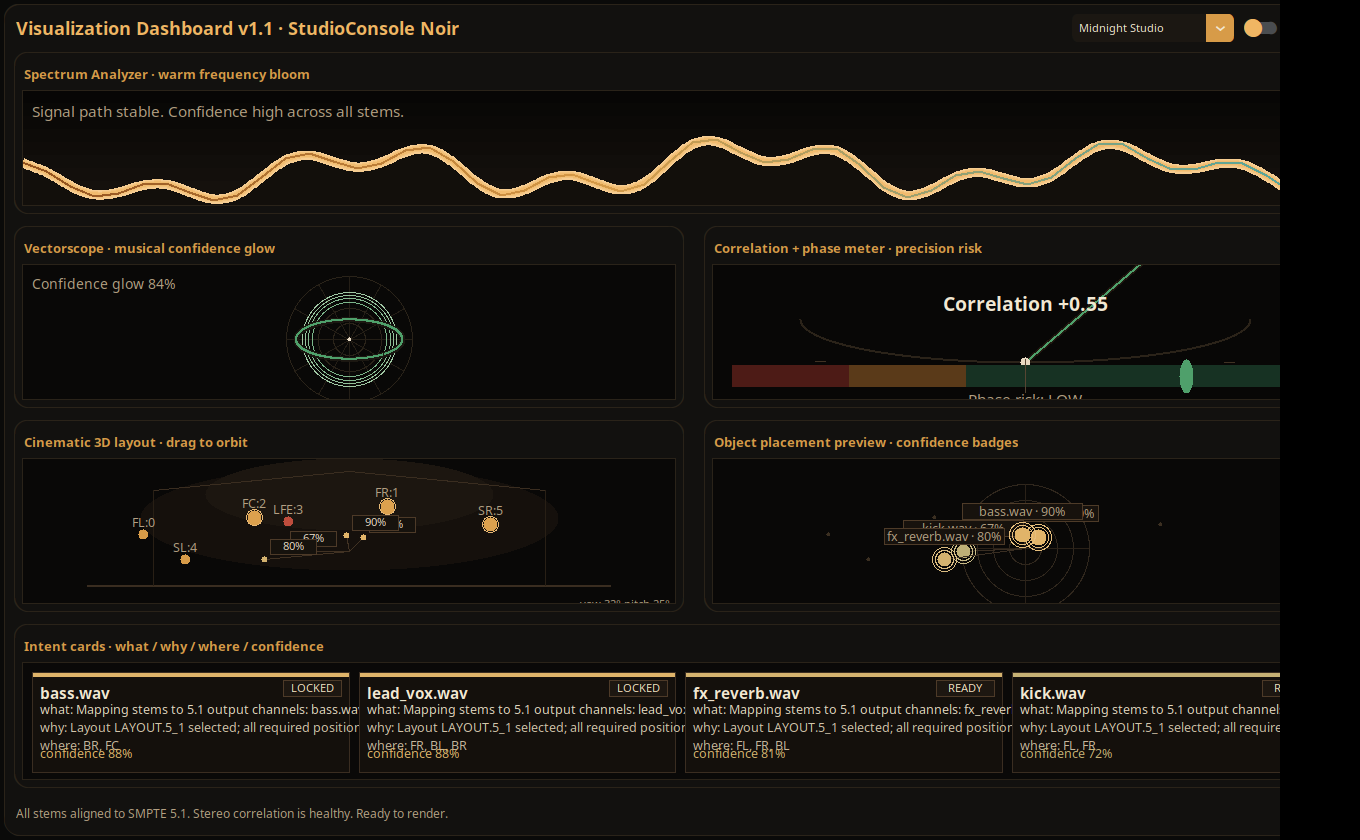
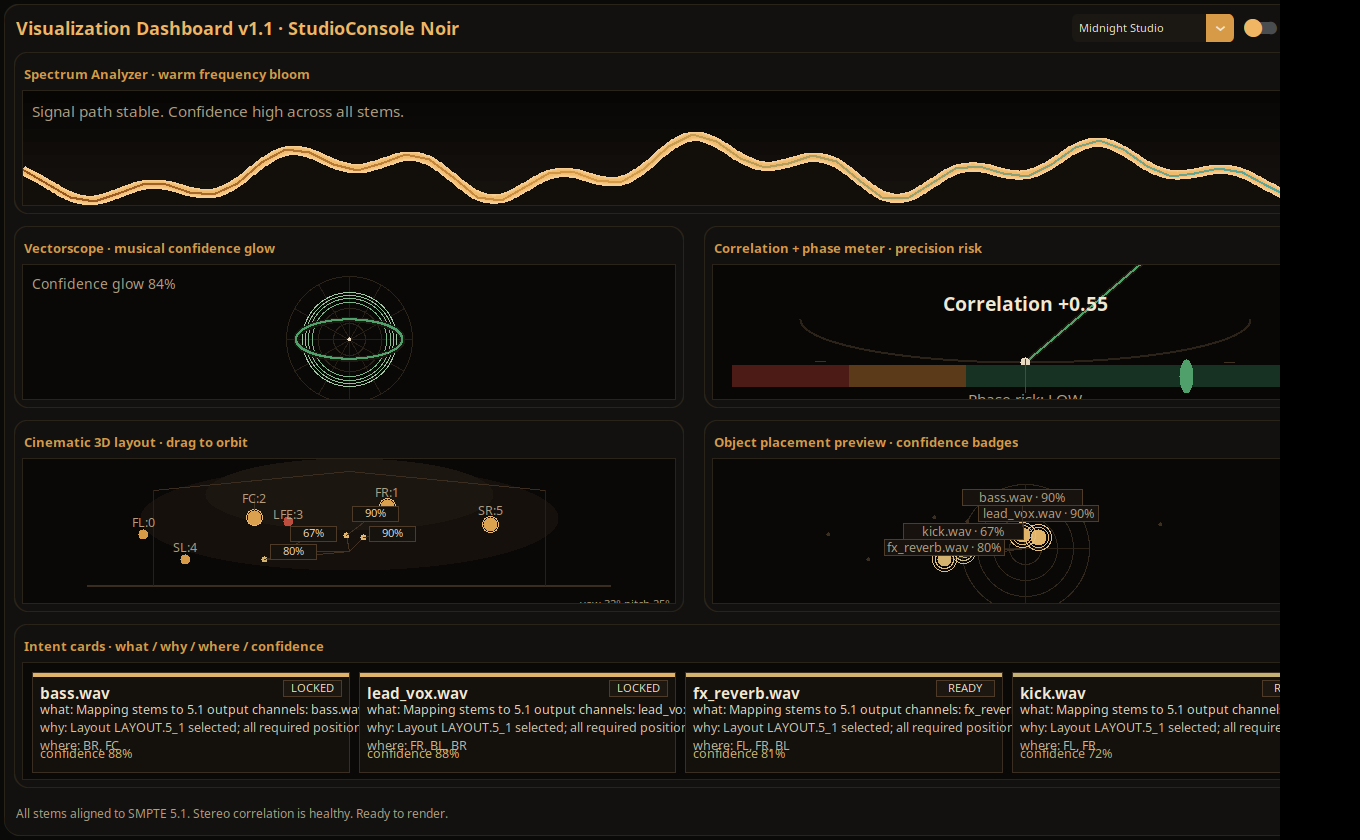
feat: force-directed label layout in 3D speaker and object placement canvases
Add _resolve_label_positions() — a deterministic O(n²) force-directed nudge
that pushes overlapping label bounding boxes apart over 18 iterations. Apply
it to _draw_speakers (speaker ID labels + confidence badges) and _draw_objects
(stem name/confidence badges). Draw a hairline leader line when a label moves
more than 4px from its anchor. Regenerate screenshots.

diff --git a/src/mmo/gui/dashboard.py b/src/mmo/gui/dashboard.py
@@ -239,6 +239,61 @@ def _project_3d(x: float, y: float, z: float) -> tuple[float, float, float]:
     return (0.5 + (x_rot * 0.22), 0.54 - (y_proj * 0.18), z_proj)
 
 
+def _resolve_label_positions(
+    labels: list[tuple[float, float, float, float]],
+    *,
+    iterations: int = 18,
+    repulsion: float = 1.4,
+    canvas_w: float = 0.0,
+    canvas_h: float = 0.0,
+) -> list[tuple[float, float]]:
+    """Force-directed nudge: push overlapping label bounding boxes apart.
+
+    Each label is described as (cx, cy, w, h) — centre and full size.
+    Returns final (cx, cy) positions in the same order as *labels*.
+
+    Deterministic: no randomness; pairs are iterated in ascending index
+    order so identical inputs always produce identical outputs.
+    O(n²) per iteration — negligible for n ≤ 12 (max speakers per layout).
+    """
+    if not labels:
+        return []
+    positions: list[list[float]] = [[cx, cy] for cx, cy, _, _ in labels]
+    sizes: list[tuple[float, float]] = [(w, h) for _, _, w, h in labels]
+    n = len(positions)
+    for _ in range(iterations):
+        disp: list[list[float]] = [[0.0, 0.0] for _ in range(n)]
+        for i in range(n):
+            for j in range(i + 1, n):
+                dx = positions[j][0] - positions[i][0]
+                dy = positions[j][1] - positions[i][1]
+                min_dx = (sizes[i][0] + sizes[j][0]) * 0.5
+                min_dy = (sizes[i][1] + sizes[j][1]) * 0.5
+                ov_x = min_dx - abs(dx)
+                ov_y = min_dy - abs(dy)
+                if ov_x > 0.0 and ov_y > 0.0:
+                    if ov_x <= ov_y:
+                        push = ov_x * repulsion * 0.5
+                        sign = 1.0 if dx >= 0.0 else -1.0
+                        disp[i][0] -= sign * push
+                        disp[j][0] += sign * push
+                    else:
+                        push = ov_y * repulsion * 0.5
+                        sign = 1.0 if dy >= 0.0 else -1.0
+                        disp[i][1] -= sign * push
+                        disp[j][1] += sign * push
+        for k in range(n):
+            positions[k][0] += disp[k][0]
+            positions[k][1] += disp[k][1]
+    if canvas_w > 0.0 and canvas_h > 0.0:
+        for k in range(n):
+            hw = sizes[k][0] * 0.5
+            hh = sizes[k][1] * 0.5
+            positions[k][0] = max(hw, min(canvas_w - hw, positions[k][0]))
+            positions[k][1] = max(hh, min(canvas_h - hh, positions[k][1]))
+    return [(p[0], p[1]) for p in positions]
+
+
 def _fallback_world(slot_index: int, count: int) -> tuple[float, float, float]:
     ring = max(1, count)
     theta = (2.0 * math.pi * slot_index) / float(ring)
@@ -1448,6 +1503,8 @@ class VisualizationDashboardPanel:  # pragma: no cover - GUI runtime path
             orbit_speakers.append((odepth, row, ox, oy))
         orbit_speakers.sort(key=lambda t: t[0])
 
+        # --- Pass 1: draw all speaker dots; collect data for label resolve ---
+        speaker_dot_data: list[tuple[Any, float, float, float]] = []
         for odepth, row, ox, oy in orbit_speakers:
             fill = self._active_theme["accent_warm"]
             if row.is_lfe:
@@ -1470,39 +1527,65 @@ class VisualizationDashboardPanel:  # pragma: no cover - GUI runtime path
                         width=1,
                     )
             canvas.create_oval(cx - radius, cy - radius, cx + radius, cy + radius, fill=fill, outline="")
+            speaker_dot_data.append((row, cx, cy, radius))
+
+        # --- Resolve speaker ID label positions and draw with hairlines ---
+        _ID_W, _ID_H = 52.0, 13.0
+        id_anchors = [
+            (cx, cy - (radius + 7.0), _ID_W, _ID_H)
+            for _, cx, cy, radius in speaker_dot_data
+        ]
+        id_positions = _resolve_label_positions(
+            id_anchors, canvas_w=float(width), canvas_h=float(height)
+        )
+        for k, (row, cx, cy, radius) in enumerate(speaker_dot_data):
+            lx, ly = id_positions[k]
+            if abs(lx - cx) > 4.0 or abs(ly - (cy - radius - 7.0)) > 4.0:
+                canvas.create_line(cx, cy - radius, lx, ly, fill="#3D3126", width=1)
             canvas.create_text(
-                cx,
-                cy - (radius + 7),
+                lx,
+                ly,
                 text=f"{row.speaker_id}:{row.slot_index}",
                 fill=self._active_theme["text_muted"],
                 font=("Space Grotesk", 9),
             )
 
+        # --- Pass 1: draw object point dots; collect badge data ---
+        obj_spk_badge_data: list[tuple[Any, float, float]] = []
         for row in frame.object_points:
             x = sx(row.x)
             y = sy(row.y)
             color = _lerp_color(self._active_theme["accent_cool"], self._active_theme["accent_hot"], row.confidence)
             canvas.create_line(width * 0.5, height * 0.58, x, y, fill="#413223", width=1)
             canvas.create_oval(x - 3, y - 3, x + 3, y + 3, fill=color, outline="")
-            badge_w = 46
-            badge_h = 15
-            bx0 = x + 6
-            by0 = y - 20
-            canvas.create_rectangle(
-                bx0,
-                by0,
-                bx0 + badge_w,
-                by0 + badge_h,
-                fill="#16120D",
-                outline="#4D3A28",
-            )
+            obj_spk_badge_data.append((row, x, y))
+
+        # --- Resolve object badge positions and draw with hairlines ---
+        _OBJ_BW, _OBJ_BH = 46.0, 15.0
+        obj_spk_anchors = [
+            (x + 6.0 + _OBJ_BW * 0.5, y - 20.0 + _OBJ_BH * 0.5, _OBJ_BW, _OBJ_BH)
+            for _, x, y in obj_spk_badge_data
+        ]
+        obj_spk_positions = _resolve_label_positions(
+            obj_spk_anchors, canvas_w=float(width), canvas_h=float(height)
+        )
+        for k, (row, x, y) in enumerate(obj_spk_badge_data):
+            bcx, bcy = obj_spk_positions[k]
+            bx0 = bcx - _OBJ_BW * 0.5
+            by0 = bcy - _OBJ_BH * 0.5
+            anc_cx = x + 6.0 + _OBJ_BW * 0.5
+            anc_cy = y - 20.0 + _OBJ_BH * 0.5
+            if abs(bcx - anc_cx) > 4.0 or abs(bcy - anc_cy) > 4.0:
+                canvas.create_line(x, y, bcx, bcy, fill="#3D3126", width=1)
+            canvas.create_rectangle(bx0, by0, bx0 + _OBJ_BW, by0 + _OBJ_BH, fill="#16120D", outline="#4D3A28")
             canvas.create_text(
-                bx0 + (badge_w / 2.0),
-                by0 + (badge_h / 2.0),
+                bcx,
+                bcy,
                 text=f"{int(round(row.confidence * 100.0))}%",
                 fill="#EADDC8",
                 font=("JetBrains Mono", 8),
             )
+
         canvas.create_text(
             width - 6,
             height - 6,
@@ -1544,6 +1627,8 @@ class VisualizationDashboardPanel:  # pragma: no cover - GUI runtime path
             y = sy(speaker.y)
             canvas.create_oval(x - 2, y - 2, x + 2, y + 2, fill="#3B2F21", outline="")
 
+        # --- Pass 1: draw all object dots; collect badge anchor data ---
+        obj_data: list[tuple[Any, float, float, float]] = []
         for row in frame.object_points:
             x = sx(row.x)
             y = sy(row.y)
@@ -1560,21 +1645,28 @@ class VisualizationDashboardPanel:  # pragma: no cover - GUI runtime path
                     width=1,
                 )
             canvas.create_oval(x - radius, y - radius, x + radius, y + radius, fill=color, outline="")
-            badge_width = 120
-            badge_height = 16
-            bx0 = x - (badge_width / 2.0)
-            by0 = y - (radius + 24)
-            canvas.create_rectangle(
-                bx0,
-                by0,
-                bx0 + badge_width,
-                by0 + badge_height,
-                fill="#17120D",
-                outline="#4E3B28",
-            )
+            obj_data.append((row, x, y, radius))
+
+        # --- Resolve badge positions and draw with hairlines ---
+        _BW, _BH = 120.0, 16.0
+        badge_anchors = [
+            (x, y - (radius + 24.0) + _BH * 0.5, _BW, _BH)
+            for _, x, y, radius in obj_data
+        ]
+        badge_positions = _resolve_label_positions(
+            badge_anchors, canvas_w=float(width), canvas_h=float(height)
+        )
+        for k, (row, x, y, radius) in enumerate(obj_data):
+            bcx, bcy = badge_positions[k]
+            bx0 = bcx - _BW * 0.5
+            by0 = bcy - _BH * 0.5
+            anc_cy = y - (radius + 24.0) + _BH * 0.5
+            if abs(bcx - x) > 4.0 or abs(bcy - anc_cy) > 4.0:
+                canvas.create_line(x, y - radius, bcx, bcy, fill="#3D3126", width=1)
+            canvas.create_rectangle(bx0, by0, bx0 + _BW, by0 + _BH, fill="#17120D", outline="#4E3B28")
             canvas.create_text(
-                bx0 + (badge_width / 2.0),
-                by0 + (badge_height / 2.0),
+                bcx,
+                bcy,
                 text=f"{_trim_text(row.object_id, 14)} · {int(round(row.confidence * 100.0))}%",
                 fill=self._active_theme["text_muted"],
                 font=("Space Grotesk", 9),
